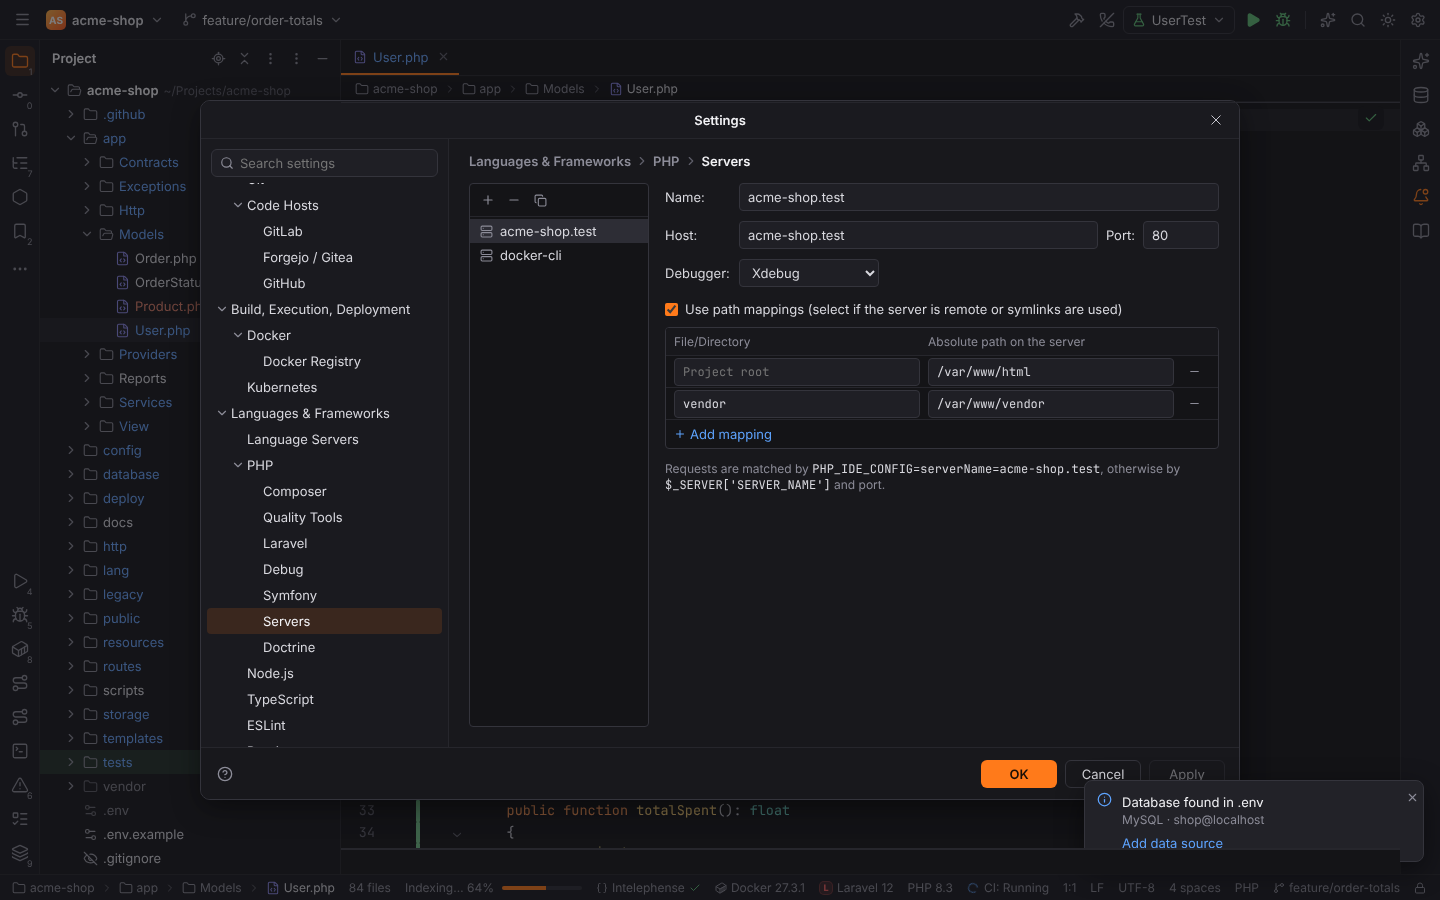
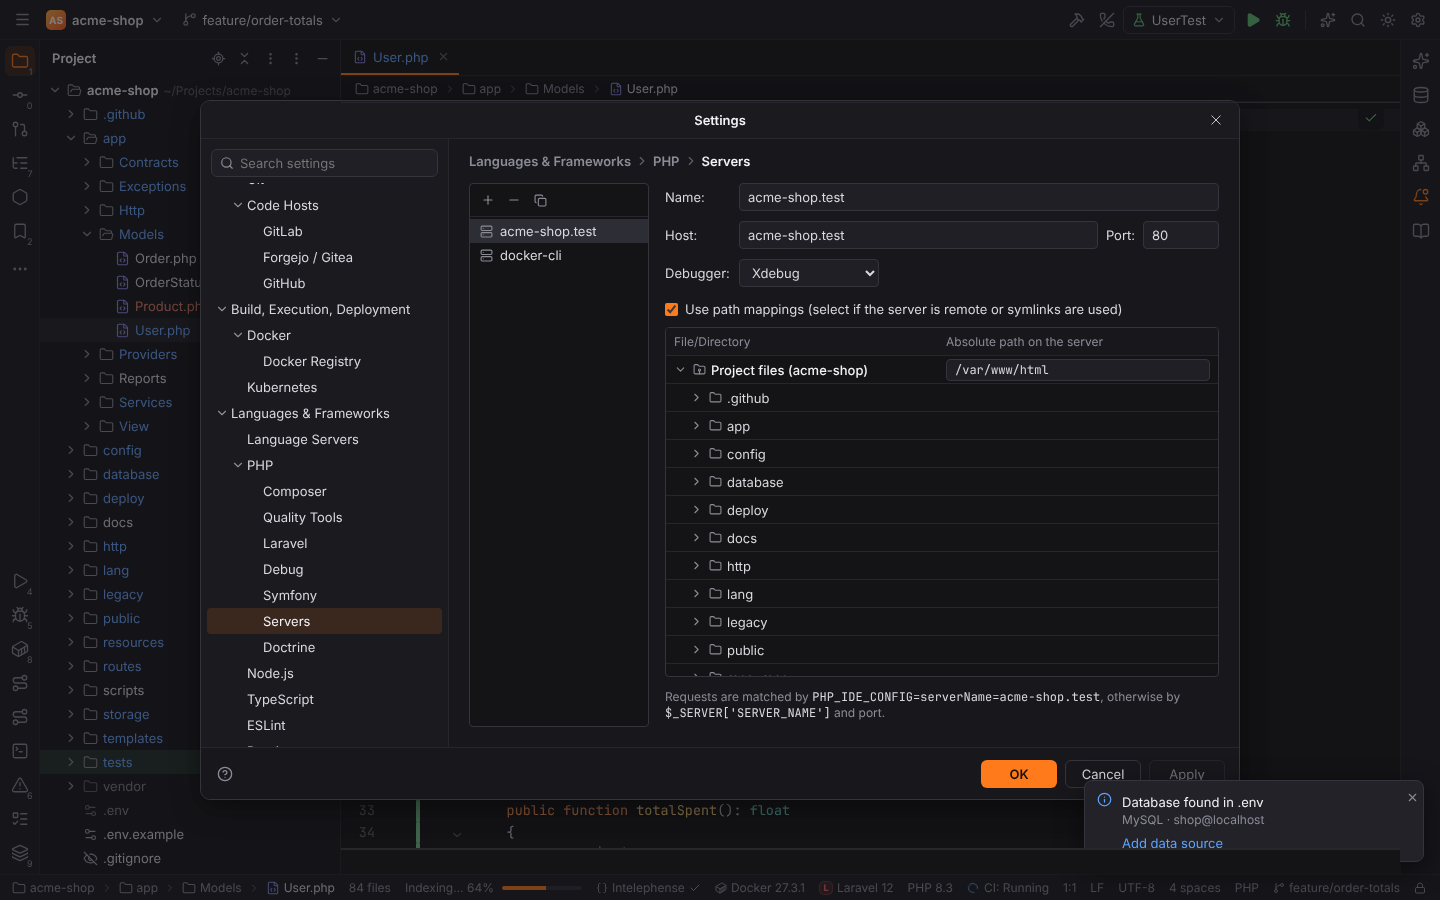
feat: edit server path mappings in a project files tree

Changed region(s): [[0.4688, 0.3733, 0.8125, 0.6222], [0.4688, 0.6533, 0.8125, 0.8089]]

diff --git a/app/ui/src/features/debug/MappingsTree.tsx b/app/ui/src/features/debug/MappingsTree.tsx
@@ -1,0 +1,90 @@
+/**
+ * "Use path mappings" of Settings | PHP | Servers: the project's folders as a tree with
+ * an "Absolute path on the server" cell per row, like PHPStorm. A non-empty cell is a
+ * mapping of that folder (the project root included).
+ */
+import { createResource, createSignal, For, Show } from "solid-js";
+import { ChevronDown, ChevronRight, Folder, FolderRoot } from "lucide-solid";
+import { workspaceApi } from "@/ipc/workspace";
+import { workspace } from "@/state/workspace";
+import type { PathMapping } from "./api";
+
+export interface MappingsTreeProps {
+  mappings: PathMapping[];
+  disabled?: boolean;
+  /** Set (non-empty `remote`) or remove (empty) the mapping of project folder `local`. */
+  onChange: (local: string, remote: string) => void;
+}
+
+/** Folders that lead to a mapped folder start expanded. */
+function leadsToMapping(path: string, mappings: PathMapping[]): boolean {
+  return mappings.some((m) => m.local !== path && (path === "" ? m.local !== "" : m.local.startsWith(`${path}/`)));
+}
+
+function Row(props: { name: string; path: string; depth: number; root?: boolean } & MappingsTreeProps) {
+  const [open, setOpen] = createSignal(!!props.root || leadsToMapping(props.path, props.mappings));
+  const [children] = createResource(
+    () => (open() ? props.path : null),
+    async (path) => {
+      const entries = await workspaceApi.listDir(path).catch(() => []);
+      return entries.filter((e) => e.kind === "dir").sort((a, b) => a.name.localeCompare(b.name));
+    },
+  );
+  const remote = () => props.mappings.find((m) => m.local === props.path)?.remote ?? "";
+  return (
+    <>
+      <div class="dbg-mapping-row" classList={{ mapped: !!remote() }} data-mapping={props.path || "."}>
+        <div class="dbg-mapping-file" style={{ "padding-left": `${props.depth * 16}px` }}>
+          <span class="tree-chevron" onClick={() => setOpen((o) => !o)}>
+            {open() ? <ChevronDown size={13} /> : <ChevronRight size={13} />}
+          </span>
+          {props.root ? <FolderRoot size={13} class="muted" /> : <Folder size={13} class="muted" />}
+          <span class="dbg-mapping-name" title={props.path || props.name}>
+            {props.name}
+          </span>
+        </div>
+        <input
+          class="dbg-input dbg-mono"
+          value={remote()}
+          placeholder={props.root ? "/var/www/html" : " "}
+          disabled={props.disabled}
+          aria-label={`Absolute path on the server for ${props.path || "the project root"}`}
+          onChange={(e) => props.onChange(props.path, e.currentTarget.value.trim())}
+        />
+      </div>
+      <Show when={open()}>
+        <For each={children() ?? []}>
+          {(c) => (
+            <Row
+              name={c.name}
+              path={props.path ? `${props.path}/${c.name}` : c.name}
+              depth={props.depth + 1}
+              mappings={props.mappings}
+              disabled={props.disabled}
+              onChange={props.onChange}
+            />
+          )}
+        </For>
+      </Show>
+    </>
+  );
+}
+
+export function MappingsTree(props: MappingsTreeProps) {
+  const rootName = () => {
+    const root = workspace()?.root ?? "";
+    const name = root.replace(/[\\/]+$/, "").split(/[\\/]/).pop();
+    return name ? `Project files (${name})` : "Project files";
+  };
+  return (
+    <div class="dbg-mappings" classList={{ disabled: !!props.disabled }}>
+      <div class="dbg-mappings-head">
+        <span>File/Directory</span>
+        <span>Absolute path on the server</span>
+      </div>
+      <div class="dbg-mappings-body">
+        <Row name={rootName()} path="" depth={0} root {...props} />
+      </div>
+    </div>
+  );
+}

diff --git a/app/ui/src/features/debug/ServersPage.tsx b/app/ui/src/features/debug/ServersPage.tsx
@@ -4,6 +4,7 @@ import { createStore, produce, reconcile } from "solid-js/store";
 import { Copy, Minus, Plus, Server } from "lucide-solid";
 import { debugApi, type ServerConfig } from "./api";
 import { slug } from "./mapping";
+import { MappingsTree } from "./MappingsTree";
 
 export function ServersPage() {
   const [servers, setServers] = createStore<ServerConfig[]>([]);
@@ -113,43 +114,19 @@ export function ServersPage() {
                   <input type="checkbox" checked={s().usePathMappings} onChange={(e) => edit((x) => (x.usePathMappings = e.currentTarget.checked))} />
                   Use path mappings (select if the server is remote or symlinks are used)
                 </label>
-                <div class="dbg-mappings" classList={{ disabled: !s().usePathMappings }}>
-                  <div class="dbg-mappings-head">
-                    <span>File/Directory</span>
-                    <span>Absolute path on the server</span>
-                  </div>
-                  <For each={s().mappings}>
-                    {(m, i) => (
-                      <div class="dbg-mapping-row" data-mapping={i()}>
-                        <input
-                          class="dbg-input dbg-mono"
-                          title="Project relative file or directory; empty for the project root"
-                          placeholder="Project root"
-                          value={m.local}
-                          disabled={!s().usePathMappings}
-                          onChange={(e) => edit((x) => (x.mappings[i()].local = e.currentTarget.value.trim()))}
-                        />
-                        <input
-                          class="dbg-input dbg-mono"
-                          placeholder="/var/www/html"
-                          value={m.remote}
-                          disabled={!s().usePathMappings}
-                          onChange={(e) => edit((x) => (x.mappings[i()].remote = e.currentTarget.value.trim()))}
-                        />
-                        <button class="icon-btn" title="Remove Mapping" disabled={!s().usePathMappings} onClick={() => edit((x) => x.mappings.splice(i(), 1))}>
-                          <Minus size={13} />
-                        </button>
-                      </div>
-                    )}
-                  </For>
-                  <button
-                    class="dbg-link dbg-add-mapping"
-                    disabled={!s().usePathMappings}
-                    onClick={() => edit((x) => x.mappings.push({ local: x.mappings.some((m) => m.local === "") ? "vendor" : "", remote: "" }))}
-                  >
-                    <Plus size={12} /> Add mapping
-                  </button>
-                </div>
+                <MappingsTree
+                  mappings={s().mappings}
+                  disabled={!s().usePathMappings}
+                  onChange={(local, remote) =>
+                    edit((x) => {
+                      const i = x.mappings.findIndex((m) => m.local === local);
+                      if (!remote) {
+                        if (i >= 0) x.mappings.splice(i, 1);
+                      } else if (i >= 0) x.mappings[i].remote = remote;
+                      else x.mappings.push({ local, remote });
+                    })
+                  }
+                />
                 <p class="muted dbg-hint">
                   Requests are matched by <code>PHP_IDE_CONFIG=serverName={s().name}</code>, otherwise by <code>$_SERVER['SERVER_NAME']</code> and port.
                 </p>

diff --git a/app/ui/src/features/debug/debug.css b/app/ui/src/features/debug/debug.css
@@ -962,3 +962,43 @@ textarea.dbg-input {
   top: auto;
   bottom: calc(100% + 2px);
 }
+
+/* Path mappings tree (Settings | PHP | Servers) */
+.dbg-mappings-head {
+  grid-template-columns: 1fr 1fr;
+}
+.dbg-mappings-body {
+  max-height: 320px;
+  overflow: auto;
+}
+.dbg-mappings-body .dbg-mapping-row {
+  grid-template-columns: 1fr 1fr;
+  min-height: 28px;
+  padding: 2px 8px;
+}
+.dbg-mapping-file {
+  display: flex;
+  align-items: center;
+  gap: 5px;
+  min-width: 0;
+}
+.dbg-mapping-name {
+  overflow: hidden;
+  text-overflow: ellipsis;
+  white-space: nowrap;
+}
+.dbg-mapping-row.mapped .dbg-mapping-name {
+  color: var(--fg-strong);
+  font-weight: 500;
+}
+.dbg-mappings-body .dbg-input {
+  height: 22px;
+}
+/* Empty cells read like table cells until edited. */
+.dbg-mappings-body .dbg-input:not(:focus):placeholder-shown {
+  background: transparent;
+  border-color: transparent;
+}
+.dbg-mappings-body .dbg-mapping-row:hover .dbg-input:not(:focus):placeholder-shown {
+  border-color: var(--border);
+}
